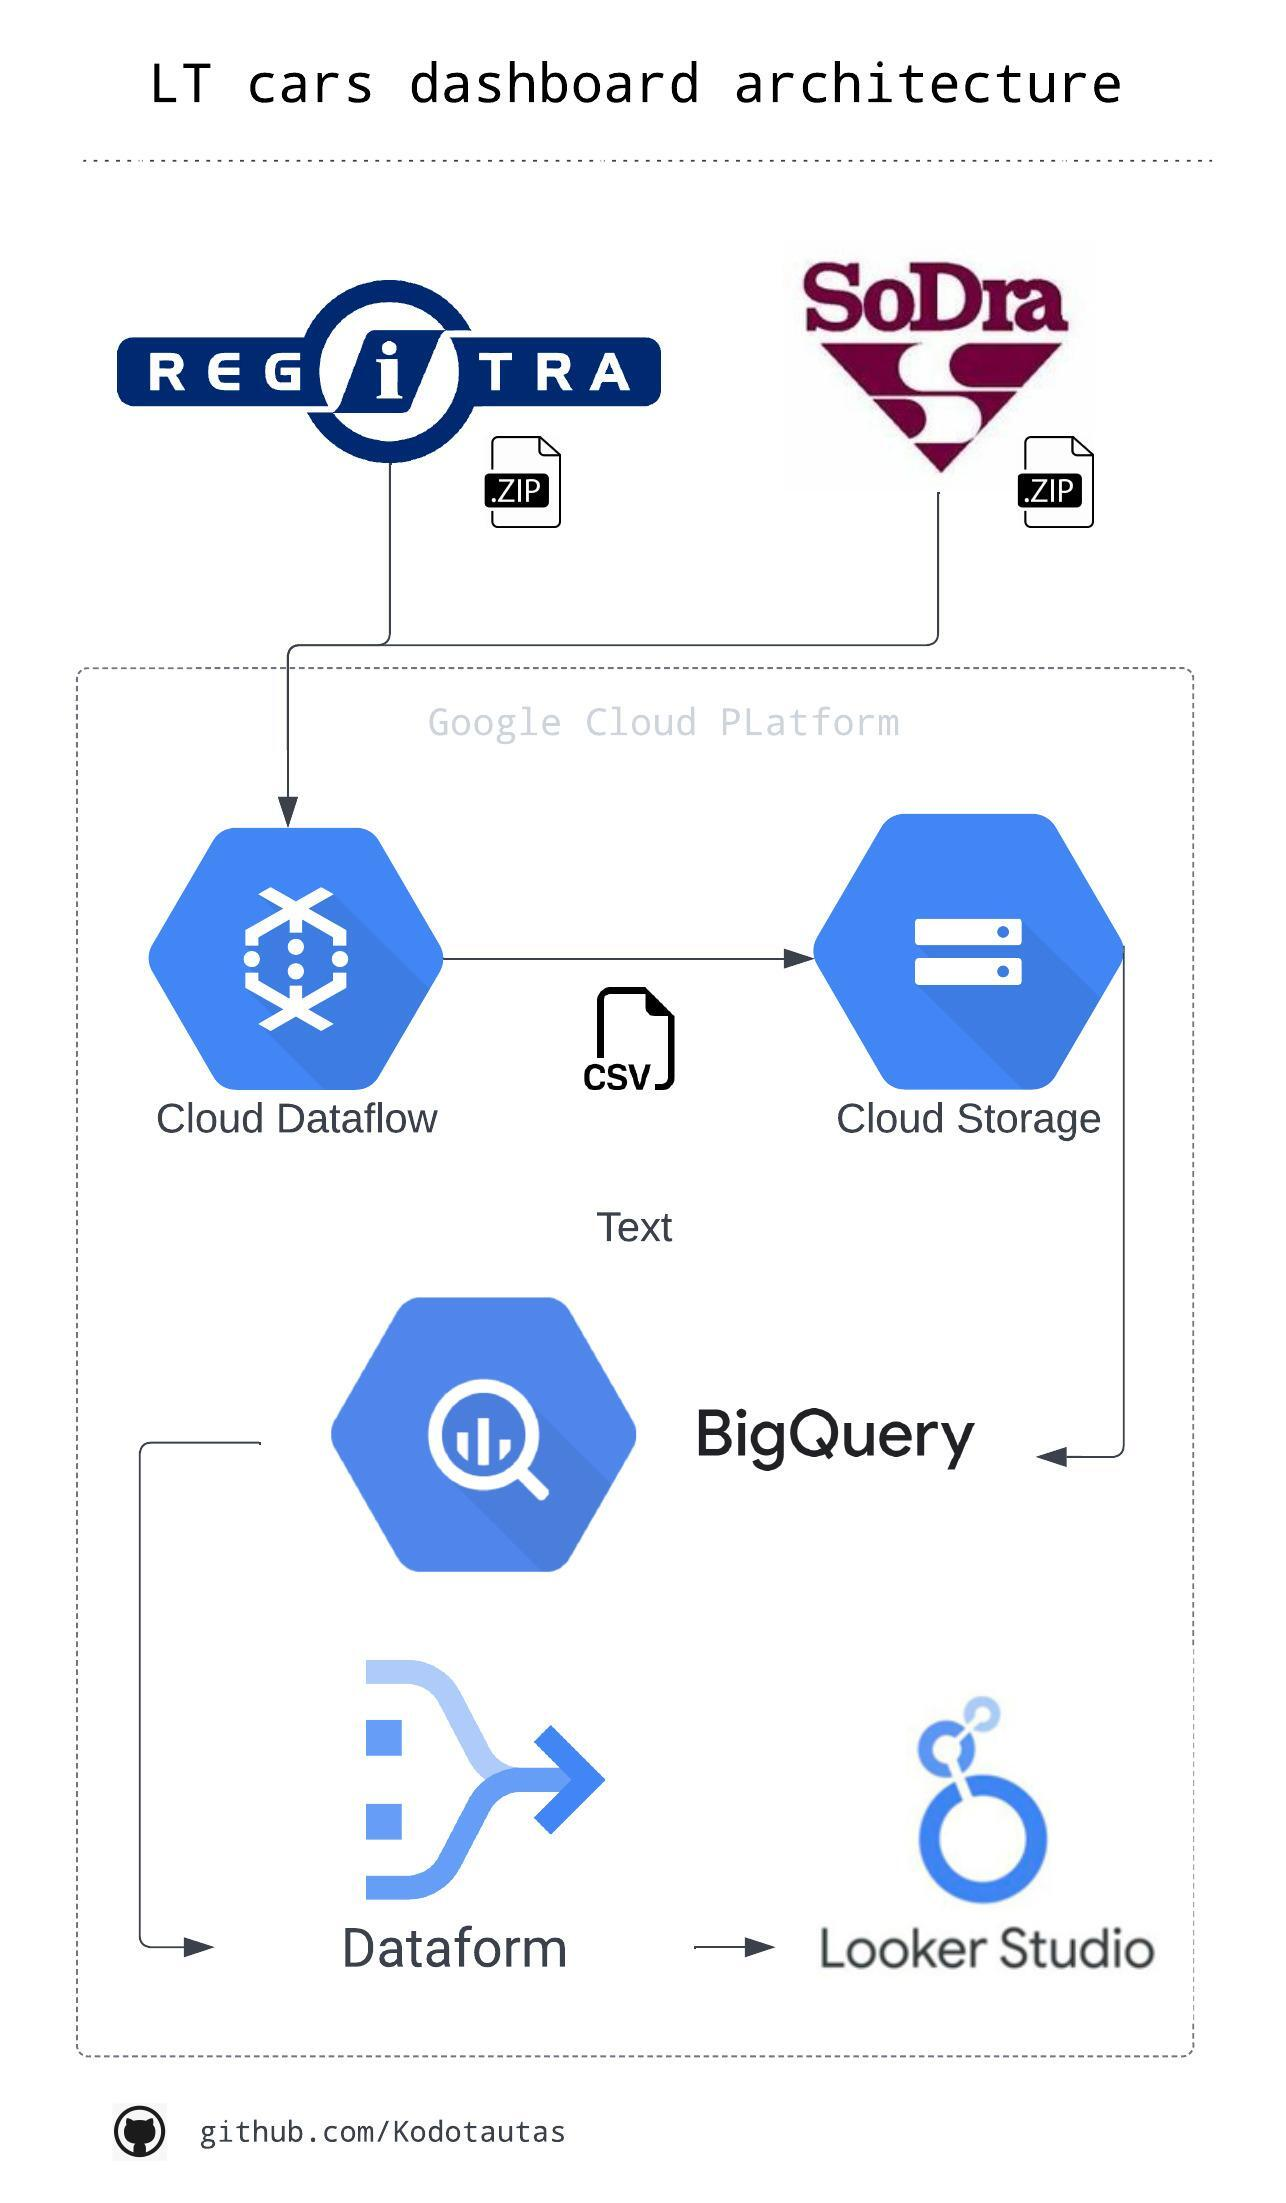
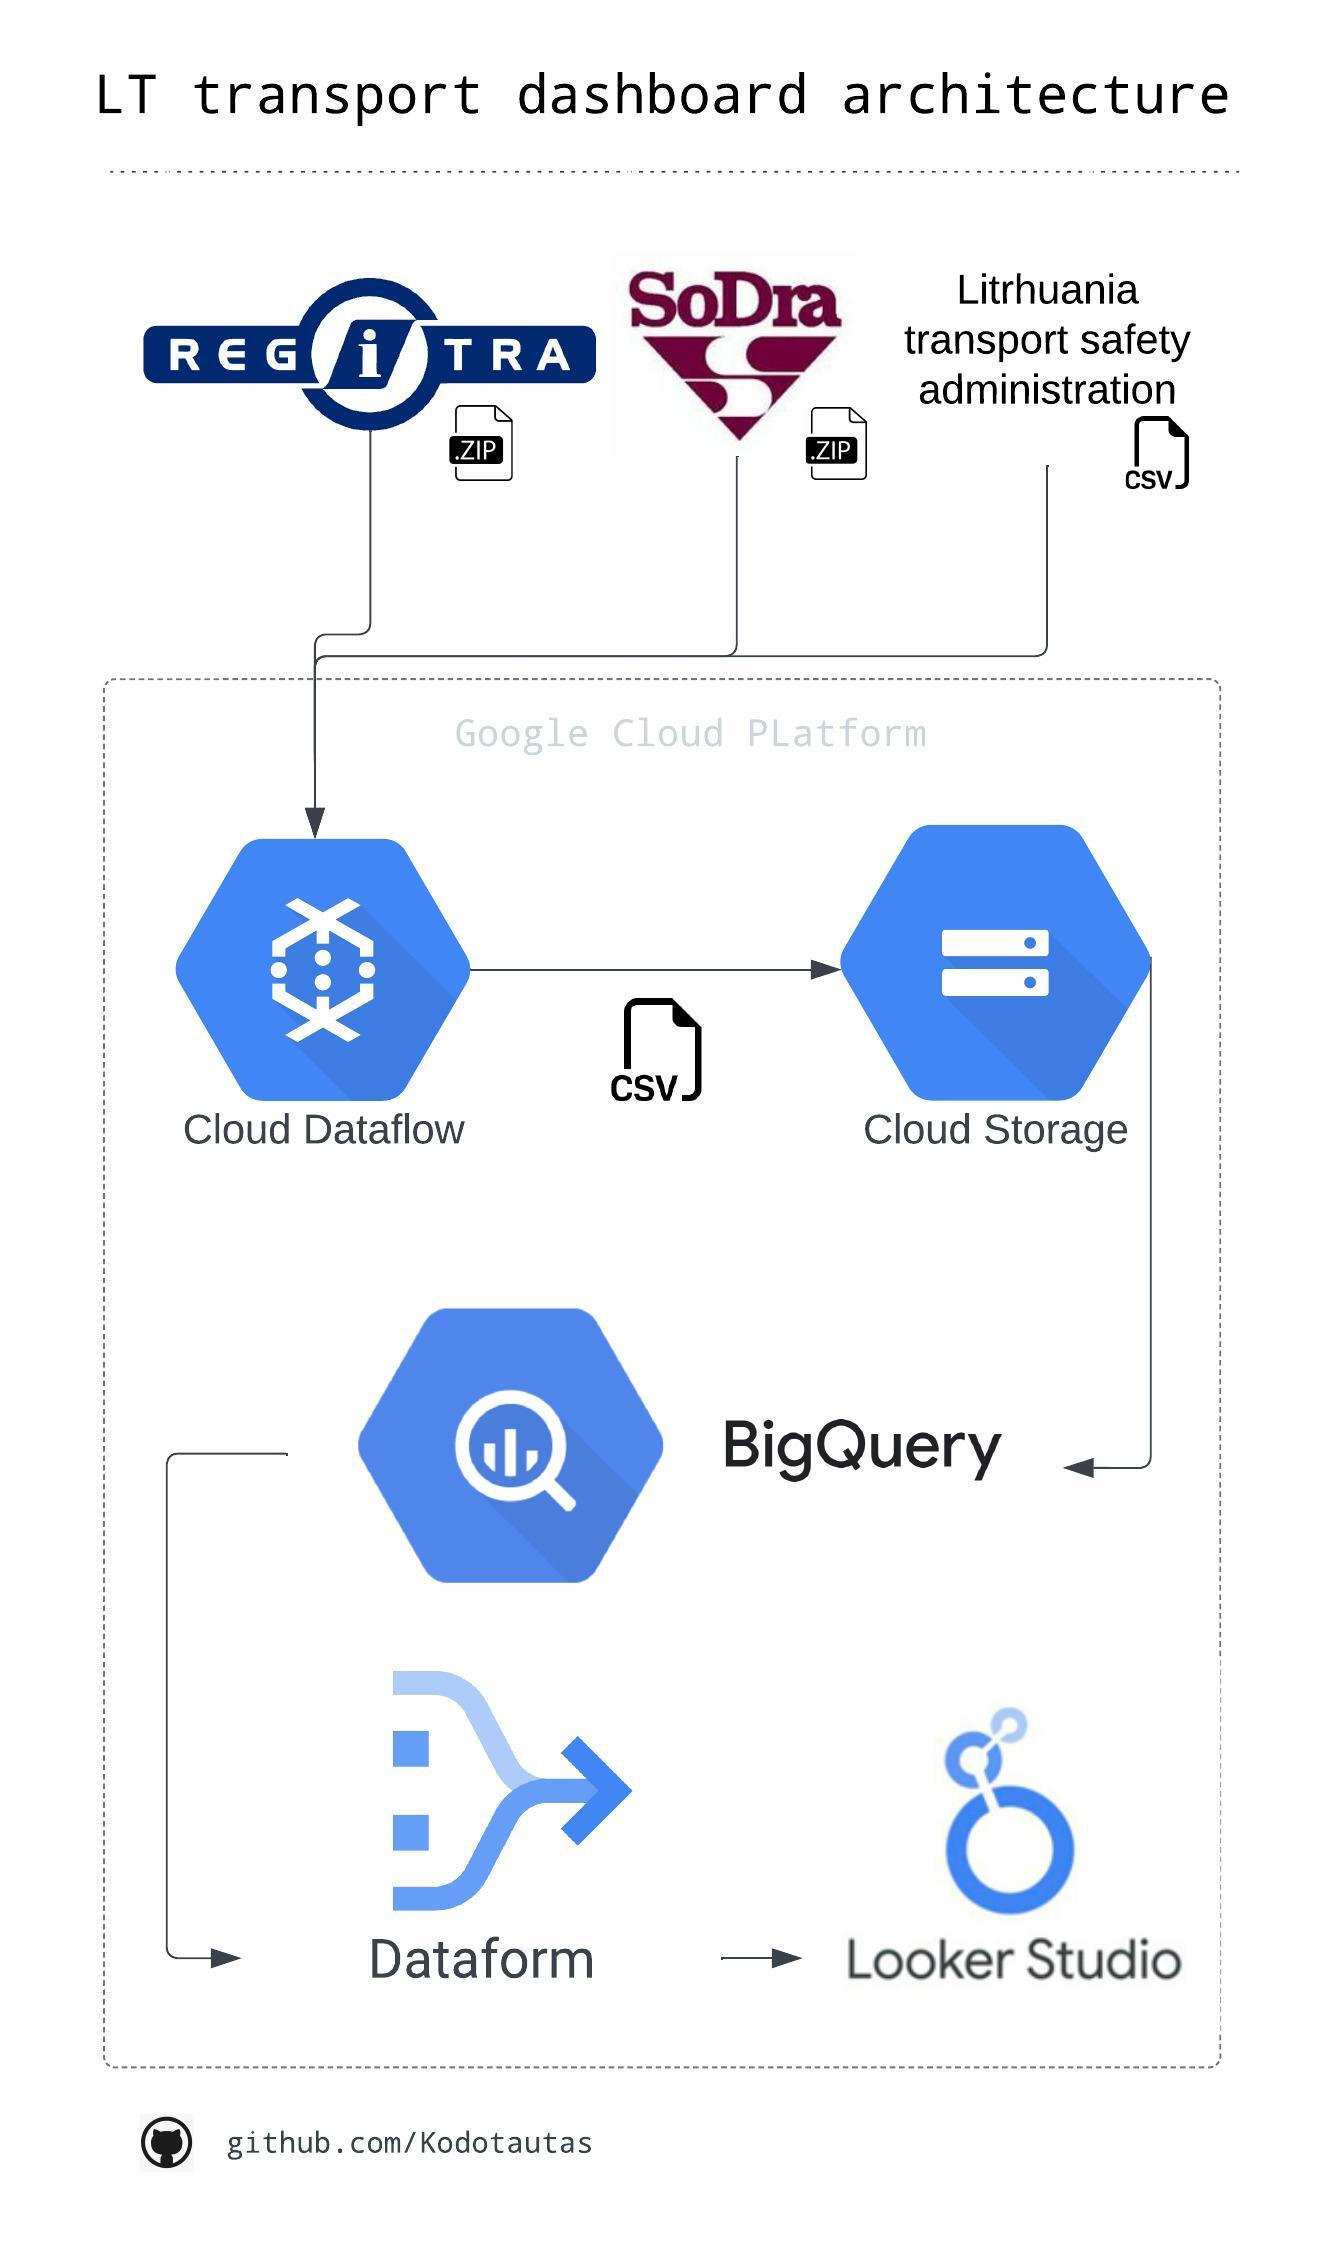
updated dataflow and readme

diff --git a/5_LT_companies_cars/src/pipeline.py b/5_LT_companies_cars/src/pipeline.py
@@ -246,7 +246,7 @@ class UploadToBigQuery(beam.DoFn):
 
 def run():
     pipeline_options = PipelineOptions()
-    pipeline_options.view_as(StandardOptions).runner = "DirectRunner"
+    pipeline_options.view_as(StandardOptions).runner = "DataflowRunner"
     pipeline_options.view_as(GoogleCloudOptions).project = "vl-data-learn"
     pipeline_options.view_as(GoogleCloudOptions).region = "europe-west1"
     pipeline_options.view_as(GoogleCloudOptions).staging_location = staging_location

diff --git a/5_LT_companies_cars/README.md b/5_LT_companies_cars/README.md
@@ -18,14 +18,3 @@
 <img src="./diagram/lt_cars_dashboard.jpeg" alt="Data Pipeline Diagram" width="300">
 
 ##### Dashboard link: [Here](https://lookerstudio.google.com/s/uMGgaIay7bA)
-
-- what add more to dashboard?
-- update pipeline in dataflow
-- update architecture chart
-- connect JADIS(?) to get sales revenue
-- where get electric cars / fuel type data because rigitra is bad
-
-- set powerful cars >= 300 kW (set before launching)
-- inform about technical & fundamental changes in last Friday of the month 
-
-- transport meters data
